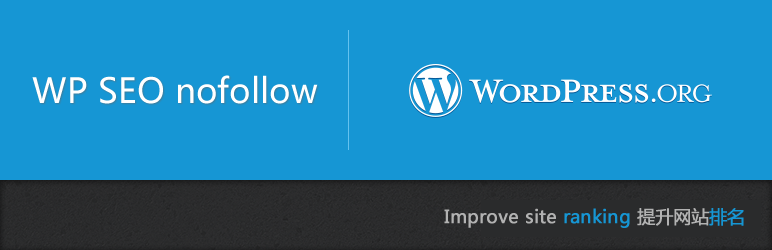
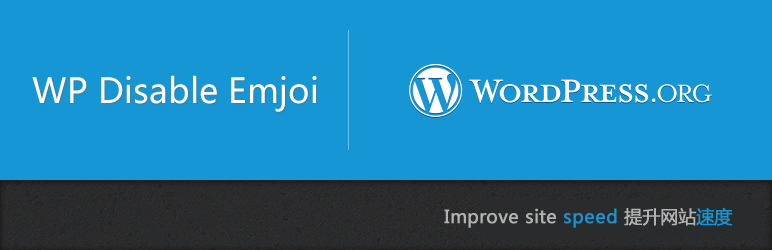
v1.0
git-svn-id: https://plugins.svn.wordpress.org/wp-seo-nofollow/trunk@1160856 b8457f37-d9ea-0310-8a92-e5e31aec5664

Changed region(s): [[0.1244, 0.308, 0.4352, 0.448], [0.715, 0.812, 0.9637, 0.924], [0.4041, 0.308, 0.4352, 0.336]]

diff --git a/wp-disable-emjoi.php b/wp-disable-emjoi.php
@@ -1,0 +1,23 @@
+<?php
+/**
+ * Plugin Name: WP Disable Emjoi
+ * Plugin URI:  http://xiedexu.cn/wp-disable-emjoi.htm
+ * Description: Emoji 的实现方式会调用 http://s.w.org/images/core/emoji/72x72/ 下的图片来渲染 Emoji，而这个地址是国内(China)访问不了的，所以要禁用 WordPress Emoji 功能。
+ * Version: 1.0
+ * Author: iOpenV
+ * Author URI: http://www.iopenv.com/
+ * License: GPLv2 or later
+ * License URI: http://www.gnu.org/licenses/gpl-2.0.html
+ */
+
+function disable_emojis() {
+	remove_action( 'wp_head', 'print_emoji_detection_script', 7 );
+	remove_action( 'admin_print_scripts', 'print_emoji_detection_script' );
+	remove_action( 'wp_print_styles', 'print_emoji_styles' );
+	remove_action( 'admin_print_styles', 'print_emoji_styles' );
+	remove_filter( 'the_content_feed', 'wp_staticize_emoji' );
+	remove_filter( 'comment_text_rss', 'wp_staticize_emoji' );
+	remove_filter( 'wp_mail', 'wp_staticize_emoji_for_email' );
+	add_filter( 'tiny_mce_plugins', 'disable_emojis_tinymce' );
+}
+add_action( 'init', 'disable_emojis' );
